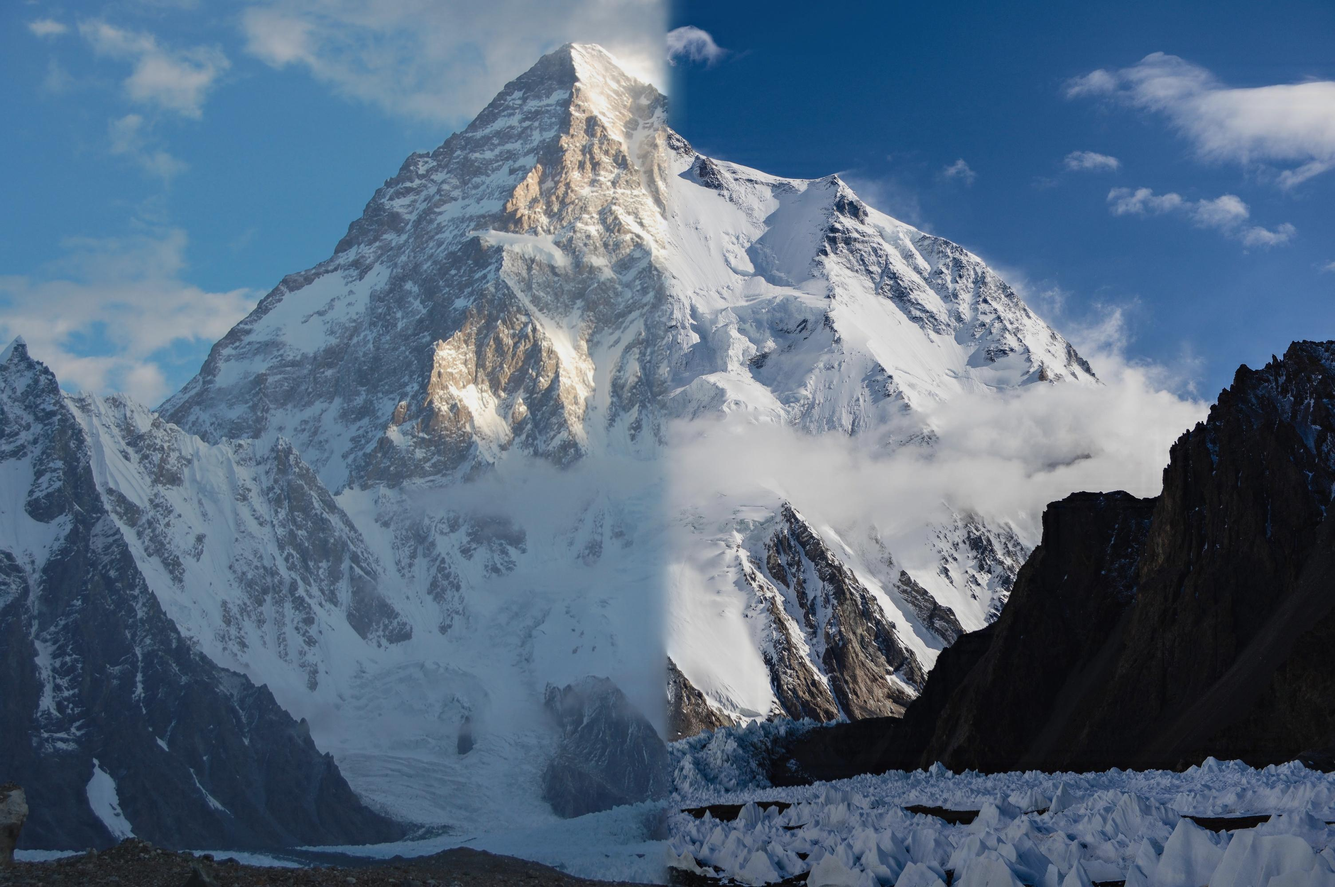
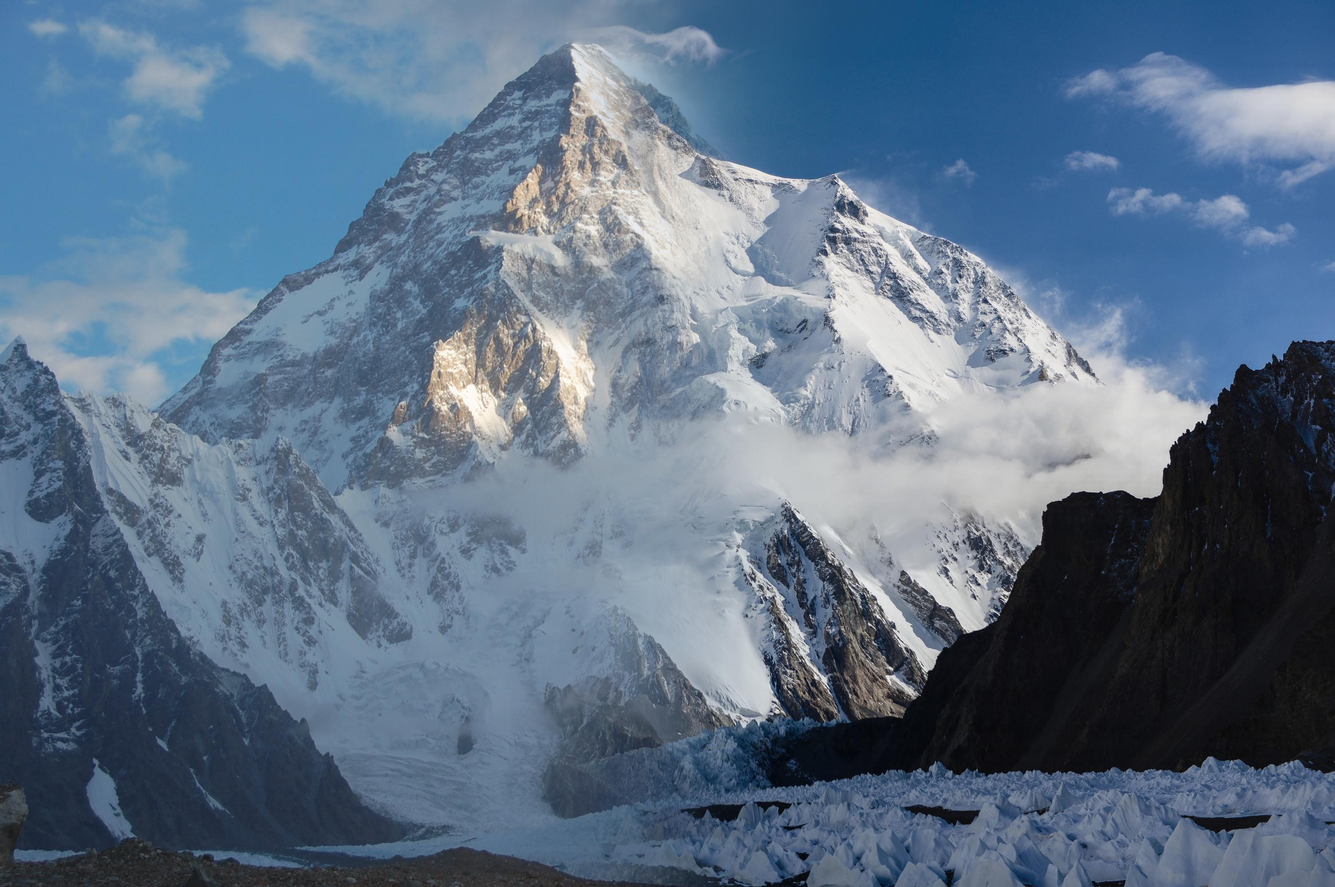
Add gradient masks

diff --git a/multiresolution.py b/multiresolution.py
@@ -1,18 +1,30 @@
 import numpy as np
 import cv2 as cv
 import matplotlib.pyplot as plt
+import os
 
 
-def gaussian_pyramid(image, n, filt_size=5, std=1):
+def clear_dir(path):
+    for file_name in os.listdir(path):
+        file = path + file_name
+        if os.path.isfile(file):
+            print("Removing ", file_name)
+            os.remove(file)
+
+
+def gaussian_pyramid(image, n, num, is_mask, filt_size=5, std=1):
     pyramid = [image]
     for i in range(1, n):
         size = (round(pyramid[i - 1].shape[1]*0.5), round(pyramid[i - 1].shape[0]*0.5))
         pyramid.append(cv.resize(cv.GaussianBlur(pyramid[i - 1], (filt_size, filt_size), std, std), size))
+        if is_mask:
+            plt.imsave(f'images/example{num}/gaussian pyramid/{i}.jpg',
+                       (pyramid[i - 1] - pyramid[i - 1].min())/(pyramid[i - 1].max() - pyramid[i - 1].min()), cmap='gray')
     return pyramid
 
 
 def laplacian_pyramid(image, n, num, filt_size=5, std=1):
-    gauss_pyramid = gaussian_pyramid(image, n, filt_size=filt_size, std=std)
+    gauss_pyramid = gaussian_pyramid(image, n, num, False, filt_size=filt_size, std=std)
     pyramid = []
     for i in range(1, n):
         size = (gauss_pyramid[i - 1].shape[1], gauss_pyramid[i - 1].shape[0])
@@ -35,9 +47,9 @@ def reconstruct(pyramid, num):
     return result
 
 
-def multires_blend(target, source, mask, num, n=10, filt_size=5, std=1):
+def multires_blend(target, source, mask, num, use_grad_mask, mask_filt_size, n=10, filt_size=5, std=1):
     # compute gaussian pyramid for the mask
-    gauss_mask = gaussian_pyramid(mask, n, filt_size=filt_size, std=std)
+    gauss_mask = gaussian_pyramid(mask, n, num, True, filt_size=filt_size, std=std)
     # compute laplacian pyramids for images
     lapl_source = laplacian_pyramid(source, n, num, filt_size=filt_size, std=std)
     lapl_target = laplacian_pyramid(target, n, num, filt_size=filt_size, std=std)
@@ -49,13 +61,25 @@ def multires_blend(target, source, mask, num, n=10, filt_size=5, std=1):
     return reconstruct(lapl_res, num)
 
 
-def example(num, method, **kwargs):
+def grad_mask(mask, filt_size):
+    std = (filt_size-1)/3
+    return cv.GaussianBlur(mask, (filt_size, filt_size), std, std)
+
+
+def example(num, method, use_grad_mask=True, mask_filt_size=5, **kwargs):
+    clear_dir(f'images/example{num}/progress/')
+    clear_dir(f'images/example{num}/gaussian pyramid/')
+    clear_dir(f'images/example{num}/laplacian pyramid/')
     source = cv.imread(f'images/example{num}/source.jpg')/255
     target = cv.imread(f'images/example{num}/target.jpg')/255
-    mask = cv.imread(f'images/example{num}/mask.png', cv.IMREAD_GRAYSCALE)/255
-    result = method(target, source, mask, num, **kwargs)
+    # mask = cv.imread(f'images/example{num}/mask.png', cv.IMREAD_GRAYSCALE)/255
+    if use_grad_mask:
+        mask = grad_mask(cv.imread(f'images/example{num}/mask.png', cv.IMREAD_GRAYSCALE), mask_filt_size)/255
+    else:
+        mask = cv.imread(f'images/example{num}/mask.png', cv.IMREAD_GRAYSCALE)/255
+    result = method(target, source, mask, num, use_grad_mask, mask_filt_size, **kwargs)
     plt.imsave(f'images/example{num}/result.jpg', np.flip((result - result.min())/(result.max() - result.min()), axis=2))
 
 
 if __name__ == '__main__':
-    example(5, multires_blend, n=5, filt_size=5, std=1)
+    example(4, multires_blend, mask_filt_size=155, n=7, filt_size=13, std=2)
